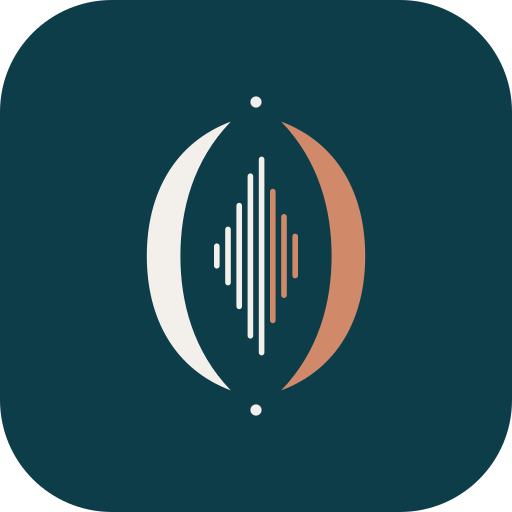
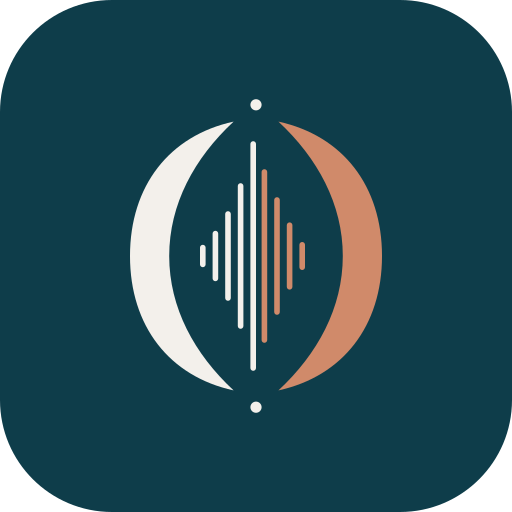
fix: align brand assets with approved lockup

diff --git a/components/brand-showcase.tsx b/components/brand-showcase.tsx
@@ -12,8 +12,8 @@ export function BrandShowcase() {
             <Image
               src="/brand/logo/oumatra-logo-horizontal-tagline.svg"
               alt="OUMATRA — From Sound. Beyond Silence."
-              width={910}
-              height={260}
+              width={1080}
+              height={280}
               priority
             />
             <figcaption>Primary horizontal lockup with tagline</figcaption>
@@ -23,7 +23,7 @@ export function BrandShowcase() {
             <Image
               src="/brand/logo/oumatra-symbol.svg"
               alt="OUMATRA symbol"
-              width={200}
+              width={240}
               height={240}
             />
             <figcaption>Full colour · light surface</figcaption>
@@ -34,7 +34,7 @@ export function BrandShowcase() {
               src="/brand/logo/oumatra-symbol-on-dark.svg"
               alt=""
               aria-hidden="true"
-              width={200}
+              width={240}
               height={240}
             />
             <figcaption>Full colour · dark surface</figcaption>

diff --git a/app/page.tsx b/app/page.tsx
@@ -14,7 +14,7 @@ export default function Home() {
               src="/brand/logo/oumatra-logo-horizontal.svg"
               alt=""
               aria-hidden="true"
-              width={910}
+              width={1080}
               height={220}
               priority
             />
@@ -27,8 +27,8 @@ export default function Home() {
             className="hero-logo"
             src="/brand/logo/oumatra-logo-stacked-tagline.svg"
             alt="OUMATRA — From Sound. Beyond Silence."
-            width={720}
-            height={520}
+            width={860}
+            height={540}
             priority
           />
           <p className="eyebrow">A global parent company</p>
@@ -71,7 +71,7 @@ export default function Home() {
             className="footer-logo"
             src="/brand/logo/oumatra-logo-monochrome-light.svg"
             alt="OUMATRA"
-            width={910}
+            width={1080}
             height={220}
           />
           <p>From Sound. Beyond Silence.</p>

diff --git a/docs/LOGO_SPECIFICATION.md b/docs/LOGO_SPECIFICATION.md
@@ -1,39 +1,53 @@
 # OUMATRA Logo Specification
 
-Version 1 · Production geometry
+Version 1 · Corrected production geometry
 
 ## Source and intent
 
-The supplied brand-kit concept and the locked direction in `BRAND_DECISIONS.md` are the source of truth. The production SVGs are a manual geometric interpretation, not an automatic raster trace. They preserve the approved relationship between opposing organic forms, sound, and silence while removing texture, lighting, mockup distortion, and raster noise.
+The supplied approved brand board and cropped lockup references, together with `BRAND_DECISIONS.md`, are the source of truth. The corrected production SVGs are a close manual reconstruction—not an automatic raster trace, font substitution, or new interpretation. They remove only raster noise, lighting, mockup perspective, and illustrative texture.
 
 ## Symbol construction
 
-The master symbol uses a `200 × 240` viewBox.
+The corrected master symbol uses a square `240 × 240` viewBox. The earlier `200 × 240` construction was rejected because it made the emblem too oval.
 
-- A vertical axis runs through `x = 100`.
-- The opposing outer forms share mirrored endpoints and curve proportions. They remain visually open rather than completing a literal O.
-- The waveform contains eight rounded vertical bars. Five Deep Teal bars move toward the central axis; three Warm Peach bars move away from it. Their differing heights express vibration without adding decorative noise.
-- Upper and lower silence dots are centered on the axis at `y = 10` and `y = 230` with radius `4`.
-- The master dot diameter is `8` SVG units and defines the internal measurement unit `x`.
-- The full-colour light-surface symbol uses Deep Teal and Warm Peach. The dark-surface adaptation changes Deep Teal elements to Ivory while retaining Warm Peach.
+- The vertical axis runs through `x = 120`.
+- Crescent tips extend from `y = 24` to `y = 216`; their widest points sit at `x = 30` and `x = 210`. The resulting silhouette is balanced and near-circular.
+- The outer forms share mirrored endpoints and curve proportions while remaining visually open rather than completing a literal O.
+- The waveform contains nine rounded bars: five Deep Teal and four Warm Peach.
+- The tallest teal bar runs from `y = 38` to `y = 202`; the adjacent peach bar runs from `y = 58` to `y = 182`.
+- Silence dots are centered at `(120, 12)` and `(120, 228)` with radius `4`.
+- The dot diameter is `8` SVG units and defines the internal measurement unit `x`.
+- Light-surface artwork uses Deep Teal and Warm Peach. Dark-surface artwork changes teal elements to Ivory while retaining Warm Peach.
 
-The outer contours are intentionally smoother and more symmetrical than the concept image because the reference contains illustrative depth and perspective that would not scale cleanly. No gradient, shadow, highlight, religious cue, infinity form, or AI/technology motif has been introduced.
+The corrected silhouette follows the approved circular/vertical composition more closely. No gradient, shadow, religious cue, infinity form, letter O construction, or technology motif has been introduced.
 
 ## Wordmark construction
 
-The production wordmark is restrained uppercase monoline vector geometry with generous spacing, reflecting the geometric sans-serif direction in the reference without introducing a radically stylized custom face. Letterforms are SVG geometry rather than an embedded font. The tagline variants use a conservative system-sans SVG text fallback; use the non-tagline lockups when exact cross-environment tagline rendering cannot be guaranteed.
+The OUMATRA wordmark is custom vector-path geometry, not editable text and not a generic substituted font. Its thin monoline construction, letter proportions, and generous spacing follow the approved reference. Both A letters are crossbar-free and contain the approved Warm Peach dot low in the counter.
 
-Do not recreate the wordmark with website type, edit its spacing, or substitute individual letters.
+The horizontal master uses a `1080 × 220` viewBox. The symbol occupies approximately `216 × 216` units. The wordmark begins at `x = 270`, leaving a 46-unit visual gap after the symbol. Wordmark cap construction is 80 units high with a 4.5-unit stroke.
+
+Do not recreate the wordmark with website type, edit its spacing, replace its A treatment, or substitute individual letters.
+
+## Tagline construction
+
+The tagline uses a restrained serif treatment (`Georgia` with Times fallback) to match the approved elegant-serif character, replacing the rejected sans-serif treatment. “Beyond Silence.” is Warm Peach; “From Sound.” is Deep Teal. Thin horizontal rules flank the centered tagline.
+
+- Horizontal lockup: 24-unit tagline below the wordmark in a `1080 × 280` field.
+- Stacked lockup: 28-unit tagline below the wordmark in an `860 × 540` field.
+- Divider rules use a 1.5-unit stroke and align around the tagline baseline area.
+
+Because the tagline remains SVG text, use a non-tagline lockup when exact cross-platform serif rendering cannot be guaranteed. The OUMATRA wordmark itself is always vector geometry.
 
 ## Clear space
 
-`x` equals the diameter of a silence dot in the symbol (`8` units in the symbol master).
+`x` equals one silence-dot diameter (`8` units in the symbol master).
 
-- Full lockups: minimum clear space of `4x` on all sides.
-- Symbol only: minimum clear space of `3x` on all sides.
-- Favicon and social-avatar containers: their supplied internal padding is already approved; do not crop it further.
+- Full lockups: at least `4x` on every side.
+- Symbol only: at least `3x` on every side.
+- Favicon and social containers: their supplied padding is already approved; do not crop it further.
 
-Clear space is measured from the outermost visible artwork, not from the SVG viewBox edge.
+Measure clear space from the outermost visible artwork, not the SVG viewBox edge.
 
 ## Minimum sizes
 
@@ -46,14 +60,15 @@ Clear space is measured from the outermost visible artwork, not from the SVG vie
 | Full-detail symbol | 32 px high | 8 mm high |
 | Simplified favicon | 16 px | Not for print |
 
-Below the listed sizes, use a simpler approved variant rather than allowing details or the tagline to become illegible.
+Below these sizes, use the simpler approved variant rather than allowing detail or the tagline to become illegible.
 
 ## Variant inventory
 
 - `oumatra-logo-horizontal.svg` — primary horizontal lockup
-- `oumatra-logo-horizontal-tagline.svg` — horizontal lockup with tagline
+- `oumatra-logo-horizontal-tagline.svg` — horizontal lockup with tagline and rules
+- `oumatra-logo-horizontal-on-dark.svg` — adapted full-colour horizontal lockup for dark surfaces
 - `oumatra-logo-stacked.svg` — primary stacked lockup
-- `oumatra-logo-stacked-tagline.svg` — stacked lockup with tagline
+- `oumatra-logo-stacked-tagline.svg` — stacked lockup with tagline and rules
 - `oumatra-symbol.svg` — full-colour symbol for light surfaces
 - `oumatra-symbol-on-dark.svg` — adapted full-colour symbol for dark surfaces
 - `oumatra-symbol-dark.svg` — Deep Teal single-colour symbol
@@ -61,4 +76,4 @@ Below the listed sizes, use a simpler approved variant rather than allowing deta
 - `oumatra-logo-monochrome-dark.svg` — Deep Teal single-colour horizontal lockup
 - `oumatra-logo-monochrome-light.svg` — Ivory single-colour horizontal lockup
 
-All SVG files have explicit viewBoxes, contain no raster image, avoid external references and embedded font files, and use minimal paths/primitives. Monochrome variants use `currentColor` with an approved default root colour so they work when opened directly.
+All files have explicit viewBoxes, contain no raster images, and avoid external references or embedded font files. Monochrome variants use `currentColor` with an approved default so they render directly.

diff --git a/docs/BRAND_DECISIONS.md b/docs/BRAND_DECISIONS.md
@@ -11,7 +11,9 @@ This decision register separates approved foundations from unresolved work. An i
 - **Palette:** Deep Teal `#0E3D4A`, Indigo `#303A6B`, Plum `#7B2E5B`, Warm Peach `#D08A6A`, and Ivory `#F3F0EB`.
 - **Logo conceptual direction:** Opposing organic/crescent-like forms surrounding a central vertical sound-wave motif, with small upper/lower dots, representing sound and silence.
 - **Identity scope:** Industry-neutral parent-company identity. OUMATRA is not narrowly positioned as an AI company, software company, consultancy, startup studio, or agency.
-- **Production SVG geometry:** The v1 symbol uses mirrored organic outer forms in a `200 × 240` construction field, an eight-bar central waveform, and two vertically aligned silence dots. Lockup lettering uses restrained monoline vector geometry.
+- **Production SVG geometry:** The corrected v1 symbol uses mirrored organic outer forms in a square `240 × 240` construction field, a nine-bar central waveform, and two vertically aligned silence dots. The rejected narrow `200 × 240` construction must not be reused.
+- **Wordmark geometry:** OUMATRA is a custom thin monoline vector lockup with generous spacing and crossbar-free A forms containing Warm Peach dots. It is not typeset with a generic font.
+- **Tagline lockup:** The tagline uses an understated serif treatment, with “Beyond Silence.” in Warm Peach and thin horizontal rules flanking the centered line where space permits.
 - **Typography:** Source Serif 4 is the display/editorial family; Manrope is the body, interface, and supporting family. Both are served as self-hosted build assets through `next/font`.
 - **Clear space:** `x` equals the diameter of either silence dot. All logo variants require at least `4x` clear space; the symbol alone requires at least `3x`.
 - **Monochrome variants:** Deep Teal is the approved dark single-colour treatment; Ivory is the approved light single-colour treatment.

diff --git a/docs/BRAND_ASSET_GUIDELINES.md b/docs/BRAND_ASSET_GUIDELINES.md
@@ -9,7 +9,7 @@ The symbol may stand alone when OUMATRA is already identified by context, in com
 ## Backgrounds
 
 - **Ivory or light neutral surfaces:** Use the full-colour primary or Deep Teal monochrome asset.
-- **Deep Teal, Indigo, or other sufficiently dark surfaces:** Use the dark-background symbol adaptation or Ivory monochrome asset.
+- **Deep Teal, Indigo, or other sufficiently dark surfaces:** Use the dark-background symbol adaptation, full horizontal on-dark lockup, or Ivory monochrome asset.
 - **Photography:** Place the logo only over calm, even-toned areas with strong contrast. Use an approved solid field when the image is busy.
 - **Other palette colours:** Verify contrast at the actual output size. Do not recolour individual logo parts to force a match.
 
@@ -35,11 +35,11 @@ Functional tokens in `app/globals.css` map these masters to backgrounds, text, b
 | Navigation / UI | Manrope | 500–700 | Clear, compact, sentence case |
 | Eyebrow / label | Manrope | 700 | Uppercase, `0.12em–0.20em` tracking |
 
-Do not typeset a replacement OUMATRA wordmark using either family. Use the supplied logo asset.
+Do not typeset a replacement OUMATRA wordmark using either family. The approved wordmark is custom vector geometry with crossbar-free, Warm Peach-dot A forms; always use the supplied asset.
 
 ## Favicon
 
-The favicon uses the approved outer forms and silence dots with a simplified five-bar waveform. The reduction from eight bars protects the central sound gesture at 16 px. Use `favicon.svg` where supported, with the supplied ICO and PNG fallbacks. Do not derive another micro-mark.
+The favicon uses the approved outer forms and silence dots with a simplified five-bar waveform. The reduction from the nine-bar master protects the central sound gesture at 16 px. Use `favicon.svg` where supported, with the supplied ICO and PNG fallbacks. Do not derive another micro-mark.
 
 ## Social avatar
 

diff --git a/docs/BRAND_FOUNDATION.md b/docs/BRAND_FOUNDATION.md
@@ -121,7 +121,7 @@ These exact values are locked and implemented as reusable CSS and Tailwind token
 
 The approved conceptual direction is a mark composed of opposing organic, crescent-like forms surrounding a central vertical sound-wave motif, with small upper and lower dots. It represents sound and silence.
 
-The supplied brand-kit image is conceptual artwork rather than a master vector. The v1 production symbol reconstructs its approved direction with clean SVG geometry: two opposing organic outer forms, an eight-bar central waveform, and small upper and lower dots. It does not auto-trace the raster image. Do not replace it with an infinity symbol, generic technology icon, letter O icon, religious symbol, crescent/star, architecture/building mark, or generated symbol.
+The supplied brand-kit image is conceptual artwork rather than a master vector. The corrected v1 production symbol closely reconstructs its approved direction with clean SVG geometry: two opposing organic outer forms, a nine-bar central waveform, and small upper and lower dots in a balanced square field. It does not auto-trace the raster image. Do not replace it with an infinity symbol, generic technology icon, letter O icon, religious symbol, crescent/star, architecture/building mark, or generated symbol.
 
 Production assets live under `public/brand/`. Detailed construction, usage, minimum-size, and background rules are defined in [LOGO_SPECIFICATION.md](LOGO_SPECIFICATION.md) and [BRAND_ASSET_GUIDELINES.md](BRAND_ASSET_GUIDELINES.md).
 
